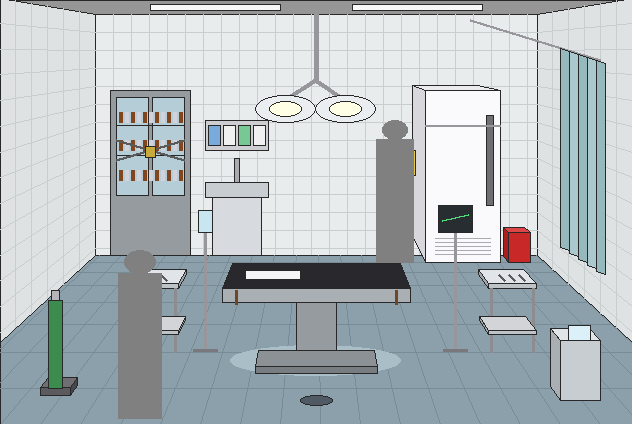
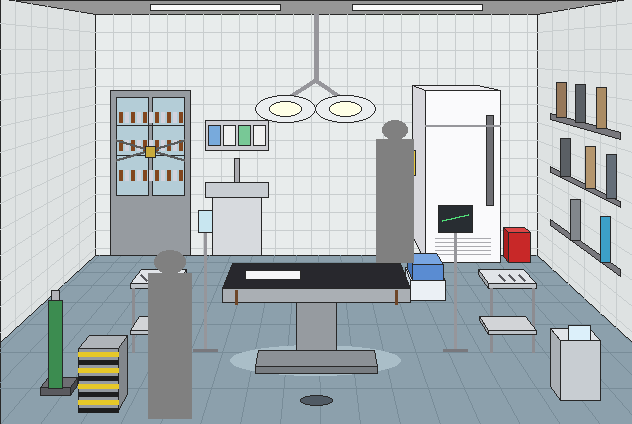
수술실 3차: 커튼 빼고 위키 물건(의수족·이식 장비 선반, 장기 이송 아이스박스, 경고 띠 오염물 통), 요청문 2000자 안으로 (생성 전)
Claude-Session: https://claude.ai/code/session_015GFgRAjkbkX57RypBkDa9m

diff --git a/tools/pixellab/sketch_op_v3.py b/tools/pixellab/sketch_op_v3.py
@@ -43,9 +43,14 @@ for side in (-1, 1):
     for y0 in range(32, 255, 18):
         d.line([(xw, y0), (xe, VY + (y0 - VY) * (xe - VX) / (xw - VX))], fill=GR)
 rect(150, 4, 280, 10, (250, 250, 250)); rect(352, 4, 482, 10, (250, 250, 250))
-# 천장 레일 커튼 (오른쪽, 반쯤 걷힘)
-d.line([(470, 20), (600, 60)], fill=(150, 150, 155), width=3)
-for i in range(5): poly([(560 + i * 9, 48 + i * 3), (569 + i * 9, 51 + i * 3), (569 + i * 9, 250 + i * 6), (560 + i * 9, 247 + i * 6)], (170, 200, 205) if i % 2 else (150, 185, 190))
+# 오른쪽 벽: 이상한 의수족·이식 장비가 걸린 철제 벽 선반 (벽 면을 따라 비스듬히)
+def rw(x, y):   # 오른쪽 벽 위 점: x(537~632), 높이 y(뒷벽 기준)
+    s_ = (x - VX) / (537 - VX); return (x, VY + (y - VY) * s_)
+for yb in (110, 160, 210):
+    poly([rw(550, yb), rw(620, yb), rw(620, yb + 5), rw(550, yb + 5)], (120, 120, 125))
+for i, (x, yb, c) in enumerate(((556, 110, (150, 120, 90)), (575, 110, (90, 95, 100)), (596, 110, (170, 140, 100)), (560, 160, (90, 95, 100)), (585, 160, (180, 150, 110)), (606, 160, (100, 110, 120)), (570, 210, (130, 135, 140)), (600, 210, (60, 160, 200)))):
+    a1, b1 = rw(x, yb - 30), rw(x + 10, yb)
+    d.rectangle([a1[0], a1[1], b1[0], b1[1]], fill=c, outline=O)
 # 뒷벽: 사슬 약품장, 세면대, 냉장고, 폐기물 통, 장갑 상자 선반, 주사기 수거함
 rect(110, 90, 190, 255, (150, 155, 160)); rect(116, 97, 148, 195, (180, 205, 215)); rect(152, 97, 184, 195, (180, 205, 215))
 for y in (125, 155): d.line([(116, y), (184, y)], fill=O)
@@ -59,6 +64,7 @@ rect(486, 115, 493, 205, (110, 110, 115)); d.line([(425, 125), (500, 125)], fill
 for y in range(238, 258, 4): d.line([(435, y), (490, y)], fill=(170, 170, 175))
 rect(400, 150, 415, 175, (230, 200, 60))
 box(508, 530, 262, 30, 6, (200, 40, 40), (220, 70, 70), (170, 30, 30))
+box(410, 445, 300, 20, 14, (235, 240, 245), (215, 225, 235), (200, 210, 220)); box(412, 443, 280, 16, 12, (90, 140, 210), (120, 165, 225), (70, 115, 180))
 # 무영등: 두 개 머리
 d.line([(316, 14), (316, 80)], fill=(150, 150, 155), width=5)
 for cx in (285, 345):
@@ -80,5 +86,7 @@ for x0 in (130, 488):
 # 산소통 수레 (왼쪽 앞), 흡인기 수레(오른쪽 앞)
 box(40, 70, 395, 8, 10, (90, 90, 95), (110, 110, 115), (70, 70, 75)); rect(48, 300, 62, 388, (60, 140, 80)); rect(51, 290, 59, 300, (180, 180, 185))
 box(560, 600, 400, 60, 14, (200, 205, 210), (225, 228, 232), (170, 175, 180)); rect(568, 325, 590, 340, (220, 240, 250))
-person(140, 418, 168)
+box(78, 118, 410, 62, 16, (150, 155, 160), (175, 180, 185), (130, 135, 140))
+for k, yy in enumerate(range(352, 410, 8)): d.rectangle([78, yy, 118, yy + 4], fill=(230, 200, 40) if k % 2 == 0 else (30, 30, 30))
+person(170, 418, 168)
 im.save(P + '/op3_sketch.png'); im.resize((W * 2, H * 2), Image.NEAREST).save(P + '/op3_sketch_x2.png')
